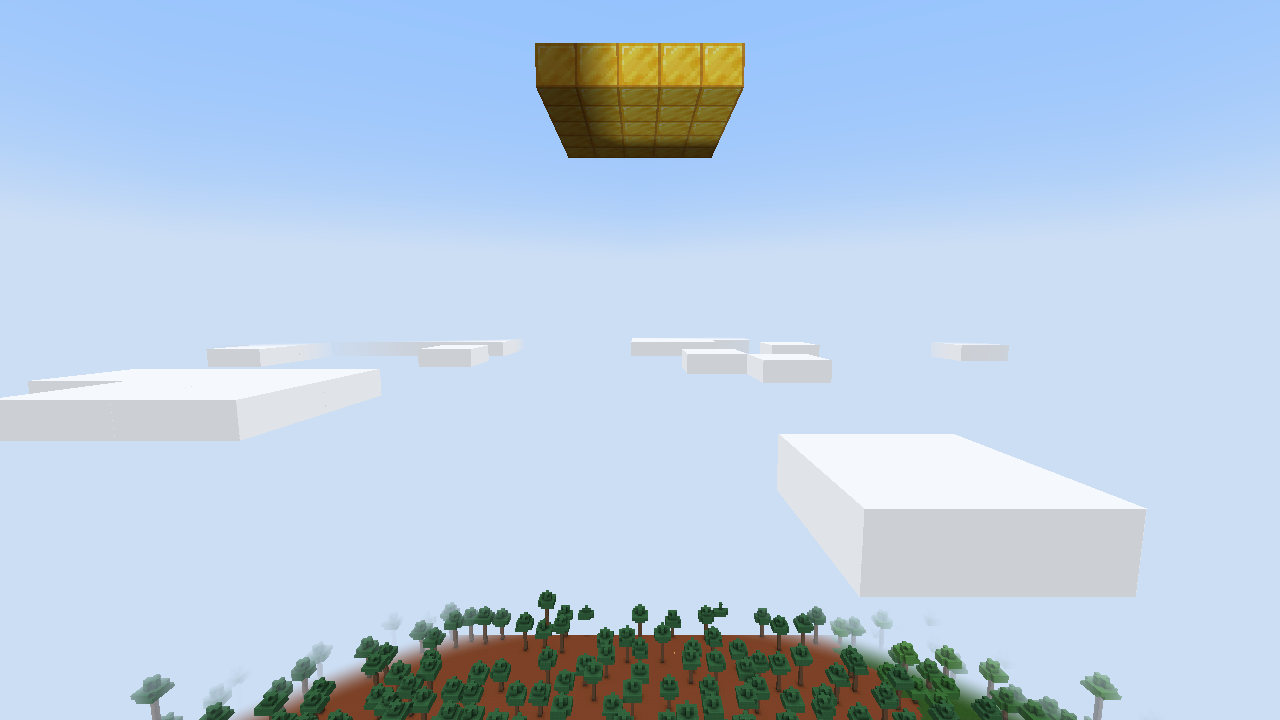
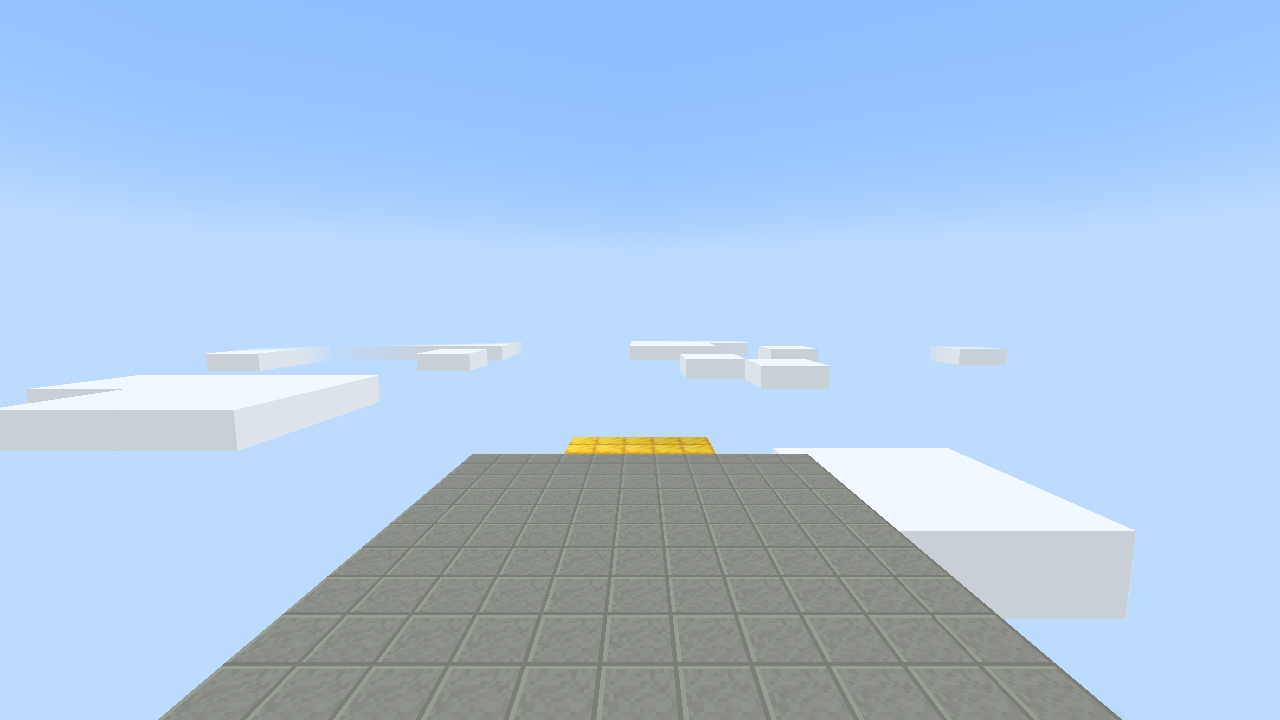
ci(captures): diagnostic des entites en fin de journal + nettoyage du bloc de sanite

diff --git a/tools/dev/captures/captures.py b/tools/dev/captures/captures.py
@@ -477,6 +477,9 @@ def main() -> int:
     time.sleep(2)
 
     # --- verification des systemes : entites et commande /cambocraft ---
+    # Le bloc d'or de la sanite doit disparaitre, sinon il reapparait dans les scenes.
+    commande(f"execute in cambocraft:cambodia run fill -2 {Y} -2 2 {Y} 2 air")
+
     print("== verification des systemes (entites + commandes) ==")
     commande(f"execute in cambocraft:cambodia run fill -5 {Y} 0 5 {Y} 10 cambocraft:pierre_du_lotus_polie")
     # Les entites doivent naitre SUR le plateau (y = Y+1), pas en dessous : une entite
@@ -496,6 +499,13 @@ def main() -> int:
         time.sleep(3)
     if capture_ecran(os.path.join(args.sortie, "entites.png")):
         print("   capture : entites.png")
+    with sortie_serveur.verrou:
+        interessantes = [l for l in sortie_serveur.lignes
+                         if any(m in l.lower() for m in
+                                ("artisan", "gardien", "summon", "unknown", "no such", "entity"))]
+    print("   DIAG-ENTITES (" + str(len(interessantes)) + " lignes)")
+    for ligne in interessantes[-12:]:
+        print("   DIAG> " + ligne[:200])
     commande("execute in cambocraft:cambodia run kill @e[type=cambocraft:artisan]")
     commande("execute in cambocraft:cambodia run kill @e[type=cambocraft:gardien]")
 
@@ -557,6 +567,13 @@ def main() -> int:
     print("== fin ==")
     for chemin in captures:
         print("   " + chemin)
+    # Diagnostic des entites en TOUTE FIN : la fin de la sortie survit a la troncature
+    # des check runs (le milieu est coupe a 65 535 caracteres).
+    with sortie_serveur.verrou:
+        interessantes = [l for l in sortie_serveur.lignes
+                         if any(m in l.lower() for m in ("artisan", "gardien", "summon", "unknown"))]
+    for ligne in interessantes[-10:]:
+        print("   FIN-DIAG> " + ligne[:180])
     return 0 if captures else 1
 
 
